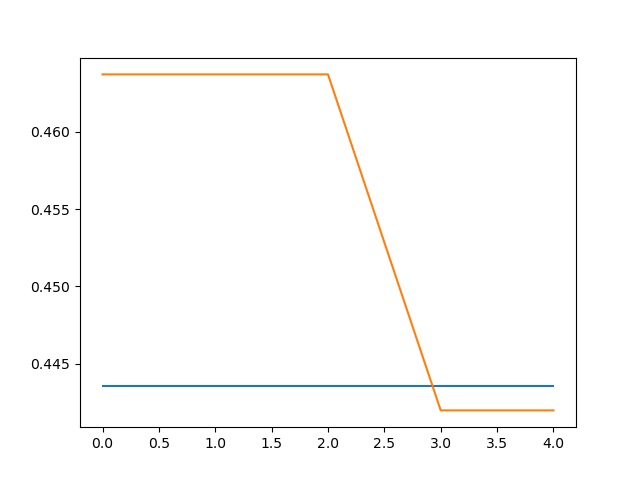
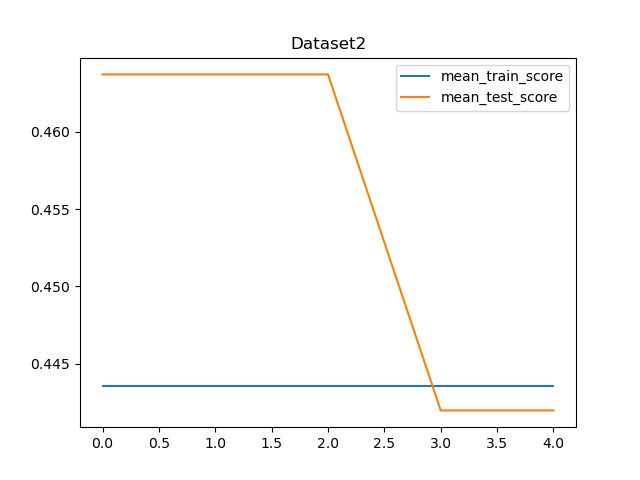
fully finished with Task 1

Changed region(s): [[0.6875, 0.125, 0.875, 0.2188], [0.4375, 0.0625, 0.5625, 0.125], [0.625, 0.1562, 0.6562, 0.2188]]

diff --git a/Assignment3/skeleton/task1_3.py b/Assignment3/skeleton/task1_3.py
@@ -7,28 +7,42 @@ from datasets import get_toy_dataset
 from task1_1 import KNearestNeighborsClassifier
 from sklearn.model_selection import cross_val_score
 
-
-
 if __name__ == '__main__':
-  X_train, X_test, y_train, y_test = get_toy_dataset(2, apply_noise=True)
-  for k in [1,30,100]:
-    # TODO fit your KNearestNeighborsClassifier with k in {1, 30, 100} and plot the decision boundaries
-    clf = KNearestNeighborsClassifier(k=k)
-    clf.fit(X_train,y_train)
-    clf.predict(X_test)
-    # TODO you can use the `cross_val_score` method to manually perform cross-validation
-    # TODO report mean cross-validated scores!
-    test_score = clf.score(X_test, y_test)
-    print(f"Test Score for k={k}: {test_score}")
-    plt.figure()
-    plotting.plot_decision_boundary(X_train, clf)
-    plotting.plot_dataset(X_train, X_test, y_train, y_test)
-    plt.show()
-    # TODO plot the decision boundaries!
+    X_train, X_test, y_train, y_test = get_toy_dataset(2, apply_noise=True)
+    for k in [1, 30, 100]:
 
-  # TODO find the best parameters for the noisy dataset!
-  knn = KNearestNeighborsClassifier()
-  clf = ...
-  # TODO The `cv_results_` attribute of `GridSearchCV` contains useful aggregate information
-  # such as the `mean_train_score` and `mean_test_score`. Plot these values as a function of `k` and report the best
-  # parameters. Is the classifier very sensitive to the choice of k?
+        clf = KNearestNeighborsClassifier(k=k)
+        clf.fit(X_train, y_train)
+        clf.predict(X_test)
+
+        scores = cross_val_score(clf, X_train, y_train, cv=5)
+        meanscores = np.mean(scores)
+        print(f"Mean score of cross validation: {meanscores}")
+
+        test_score = clf.score(X_test, y_test)
+        print(f"Test Score for k={k}: {test_score}")
+        plt.figure()
+        plotting.plot_decision_boundary(X_train, clf)
+        plotting.plot_dataset(X_train, X_test, y_train, y_test)
+        plt.title(f'DecisionBoundariesK={k}')
+        plt.savefig(f'images/task1_3DecisionBoundariesK={k}.png')
+        plt.show()
+
+
+
+    knn = KNearestNeighborsClassifier()
+    parameters = {'k': [3, 5, 7, 9, 17, 25, 33, 49, 99]}
+    clf = GridSearchCV(knn, parameters, return_train_score=True, n_jobs=-1)
+    clf.fit(X_train, y_train)
+
+    print(clf.best_params_)
+    print(clf.best_score_)
+    Karray = [3, 5, 7, 9, 17, 25, 33, 49, 99]
+    plt.plot(Karray, clf.cv_results_['mean_train_score'], label="mean_train_score",marker="o")
+    plt.plot(Karray, clf.cv_results_['mean_test_score'], label="mean_test_score",marker="o")
+    plt.legend()
+    plt.xlabel('K')
+    plt.savefig('images/task1_3result.png')
+    plt.show()
+
+

diff --git a/Assignment3/skeleton/task1_2.py b/Assignment3/skeleton/task1_2.py
@@ -12,7 +12,7 @@ if __name__ == '__main__':
         X_train, X_test, y_train, y_test = get_toy_dataset(idx)
         knn = KNearestNeighborsClassifier()
 
-        # include the `return_train_score=True` option to get the training accuracies
+
 
         parameters = {'k': [3, 5, 9, 25, 49]}
         clf = GridSearchCV(knn, parameters, return_train_score=True)
@@ -24,11 +24,14 @@ if __name__ == '__main__':
         plt.figure()
         plotting.plot_decision_boundary(X_train, clf)
         plotting.plot_dataset(X_train, X_test, y_train, y_test)
+        plt.title(f'Dataset{idx}')
         plt.savefig(f'images/Dataset{idx}.png')
 
         plt.show()
         plt.figure()
-        plt.plot(clf.cv_results_['mean_train_score'])
-        plt.plot(clf.cv_results_['mean_test_score'])
+        plt.plot(clf.cv_results_['mean_train_score'],label="mean_train_score")
+        plt.plot(clf.cv_results_['mean_test_score'],label="mean_test_score")
+        plt.title(f'Dataset{idx}')
+        plt.legend()
         plt.savefig(f'images/Dataset{idx}_cvresults.png')
         plt.show()
